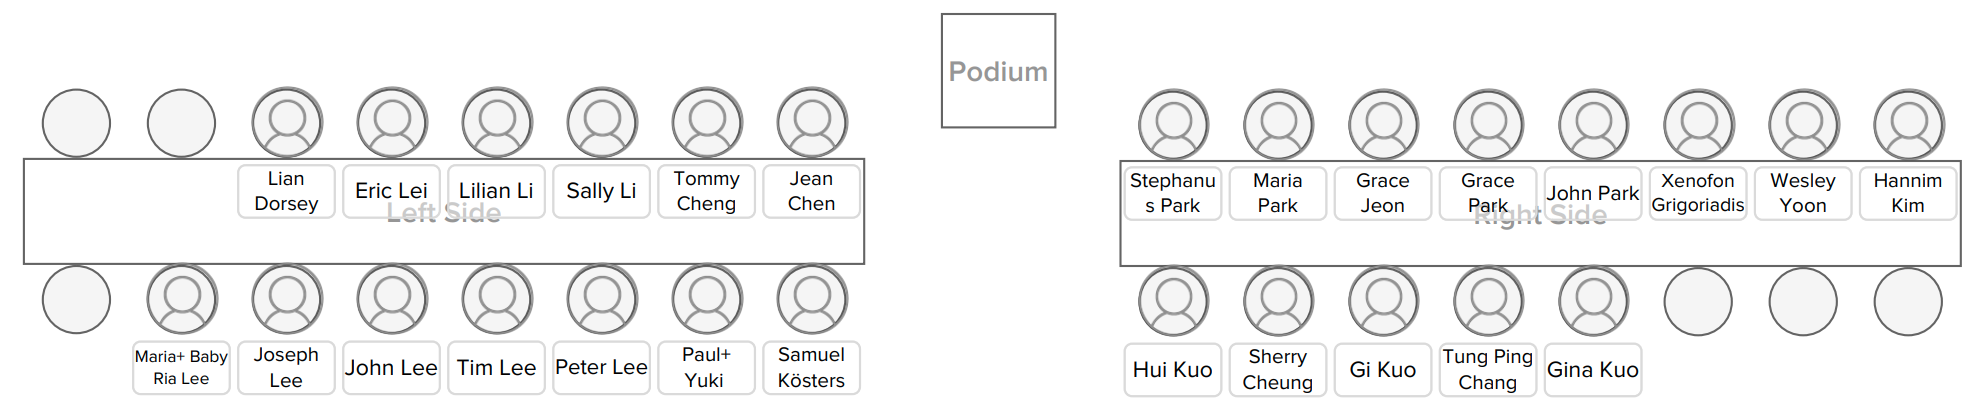
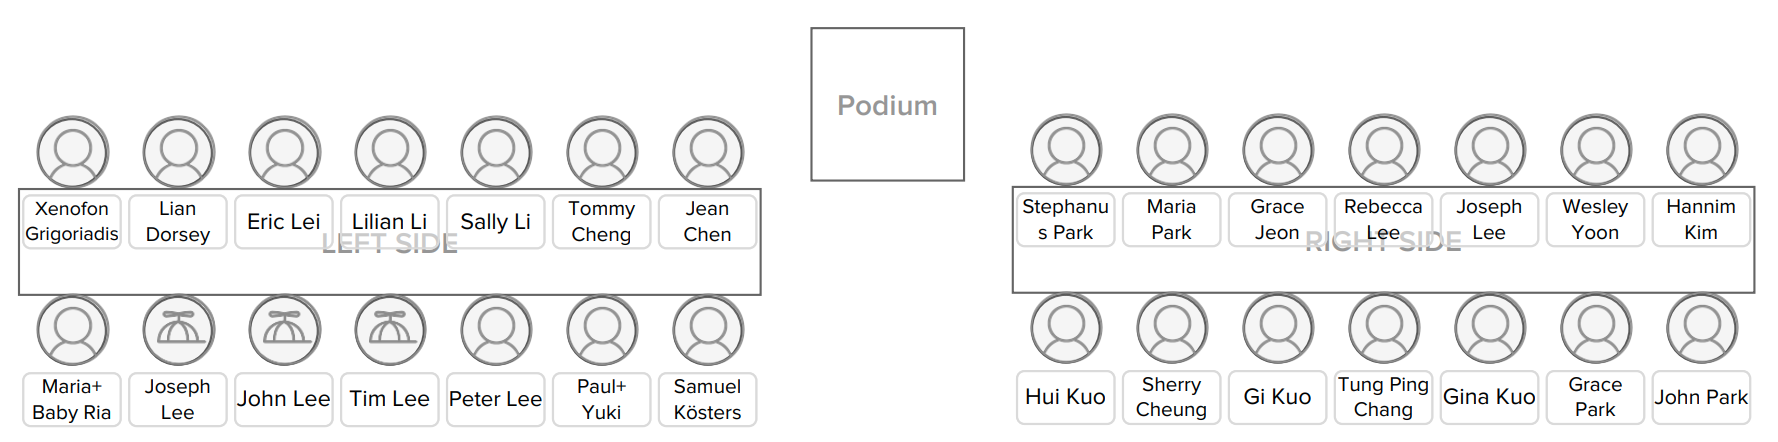
updated ushers

diff --git a/vendors-ushers.html b/vendors-ushers.html
@@ -61,10 +61,10 @@
                                     <ul style="list-style-type:disc;">
                                         <li>Greet guests</li>
                                         <li>Hand out programs / ensure every chair has a program on it (TBD)</li>
-                                        <li>Direct guests to seating</li>
+                                        <li>Direct guests to seating; each row has 14 seats (7 per side)</li>
                                         <li>Ensure front TWO rows on each side are reserved for family (these rows will also have signs)</li>
                                         <li>Samuel Kösters <b>MUST</b> have the 1st seat on the second row of the left side (he is filming our vows)</li>
-                                        <li>Hannim Kim & Wesley Yoon should sit near the ends of the first row (they are both part of the ceremony)</li>
+                                        <li>Hannim Kim, Wesley Yoon, and Joseph Lee should sit near the ends of the first row (they are both part of the ceremony)</li>
                                         <li>We do not have a brides' side & grooms' side, so just make sure each side is balanced</li>
                                         <li>Let guests know where the exits & restrooms are (in the main building)</li>
                                         <li>Remind guests that this is an <b><u>unplugged ceremony</u></b> so all phones and cameras should be put away until cocktail hour</li>
